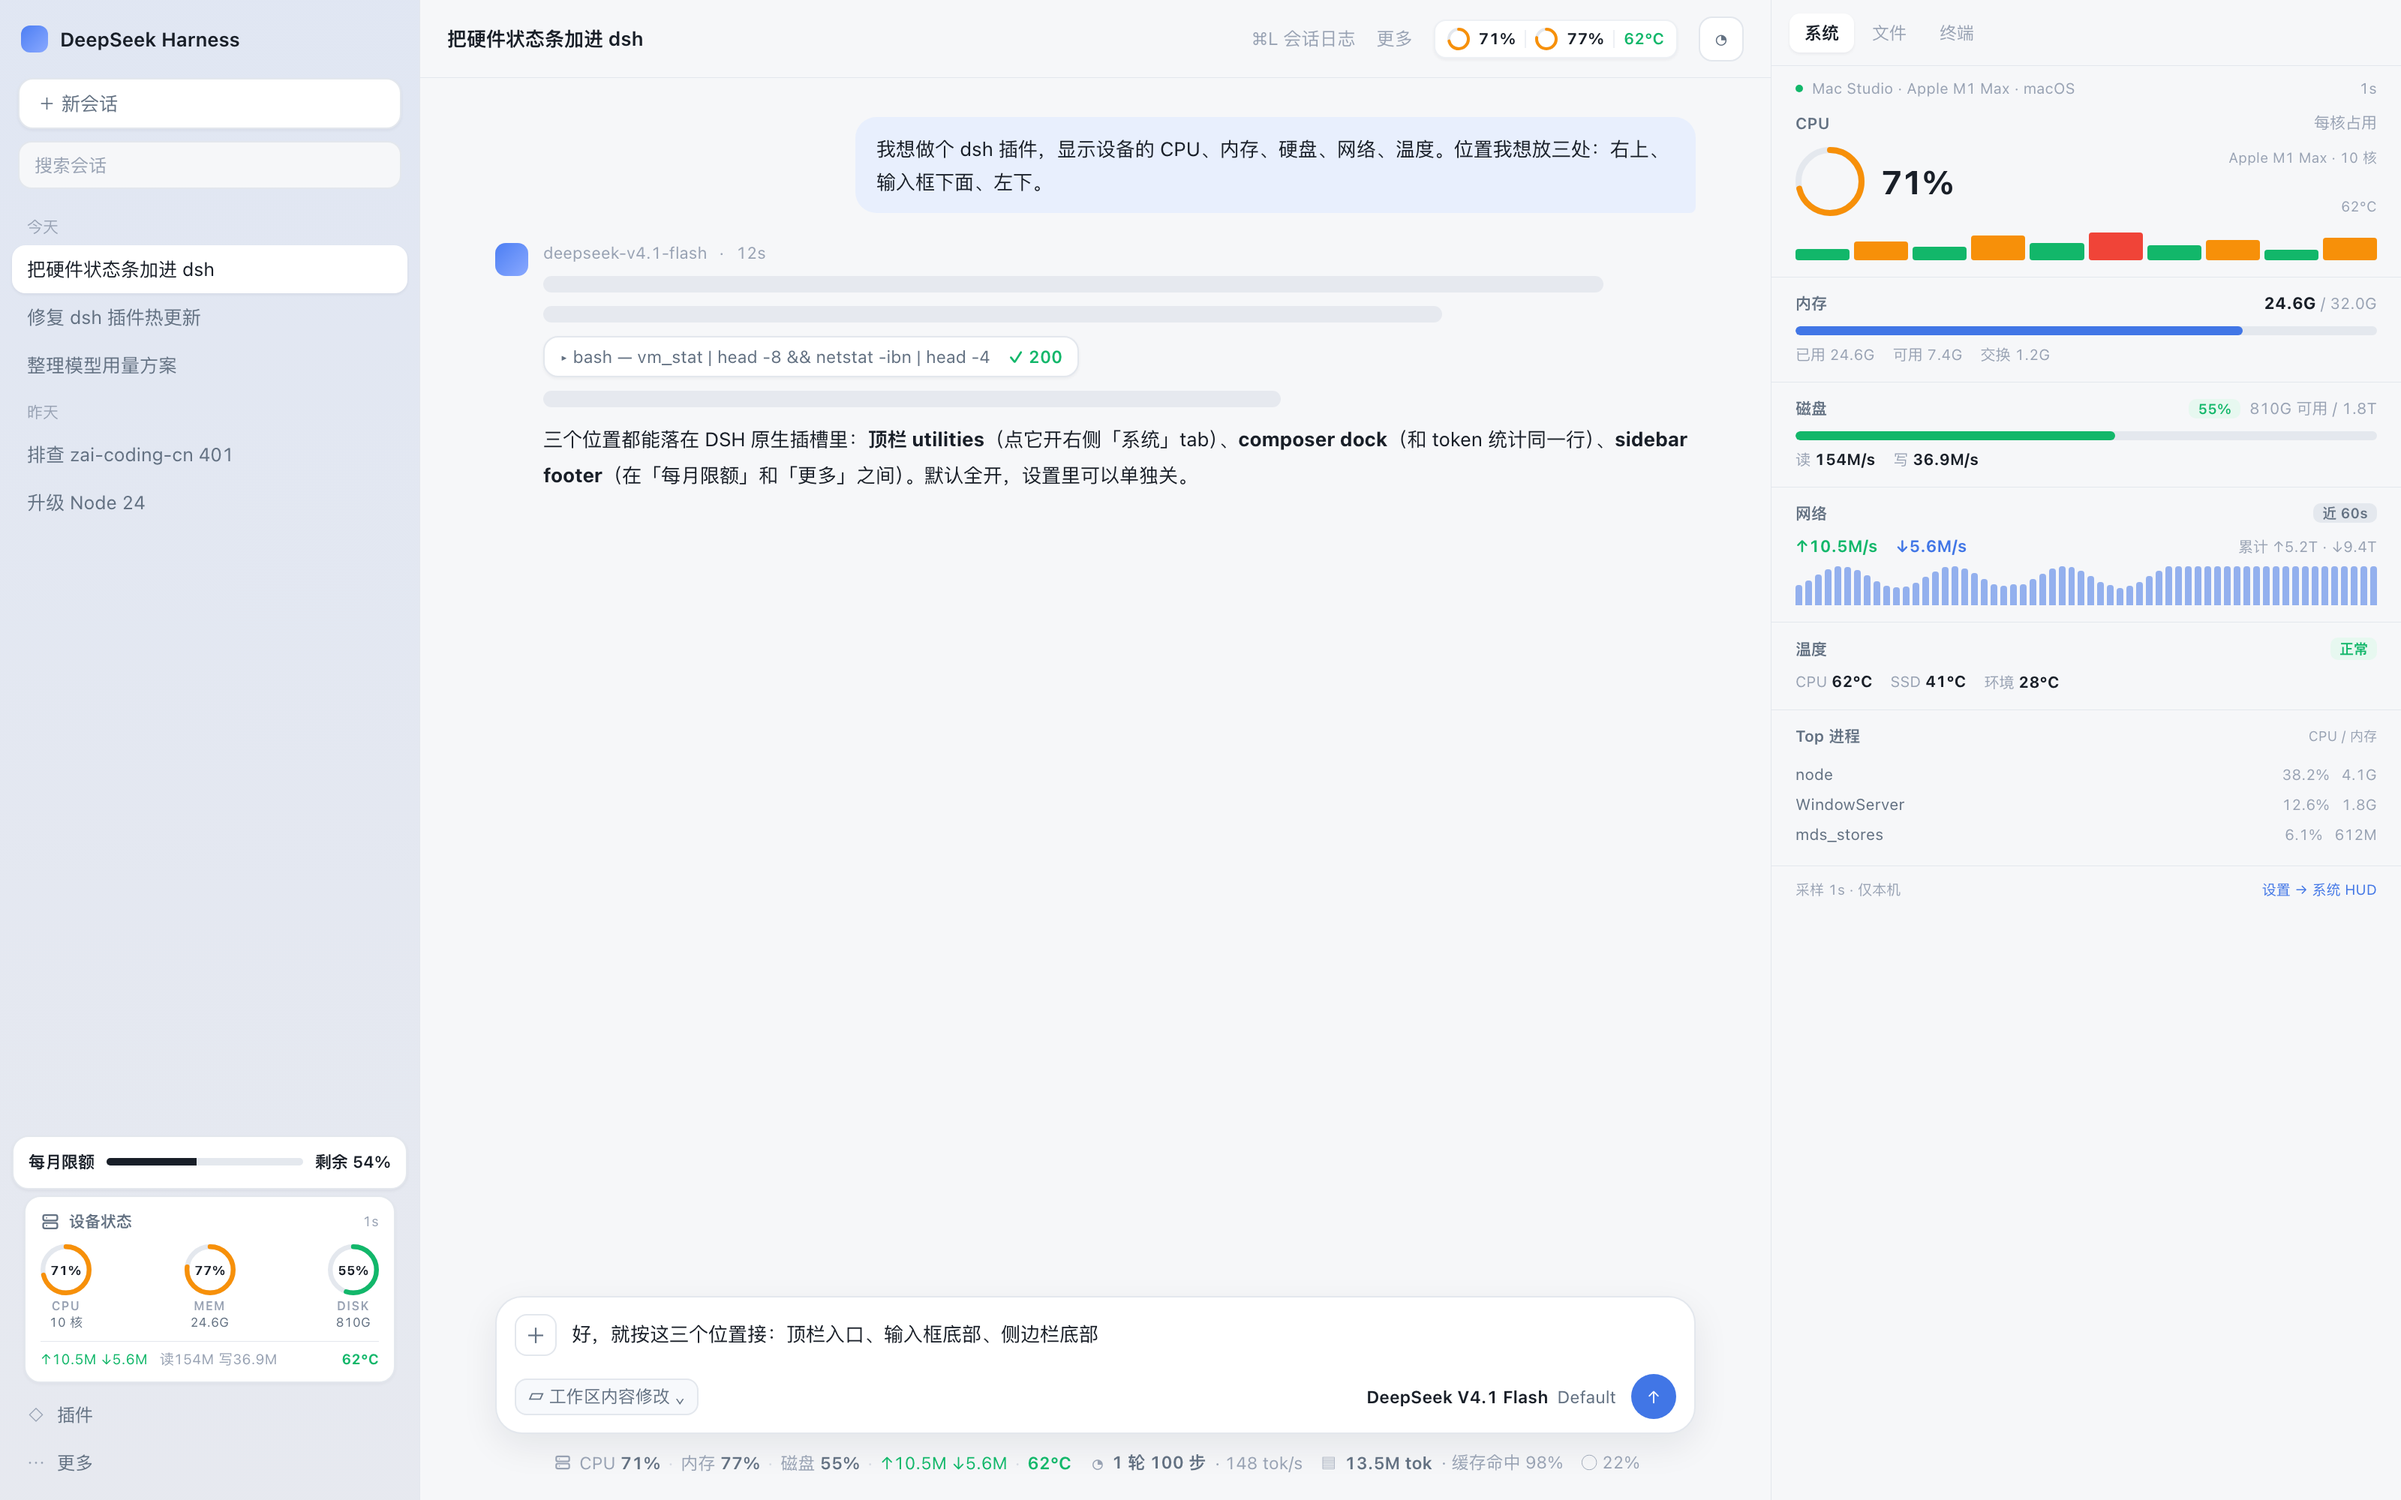
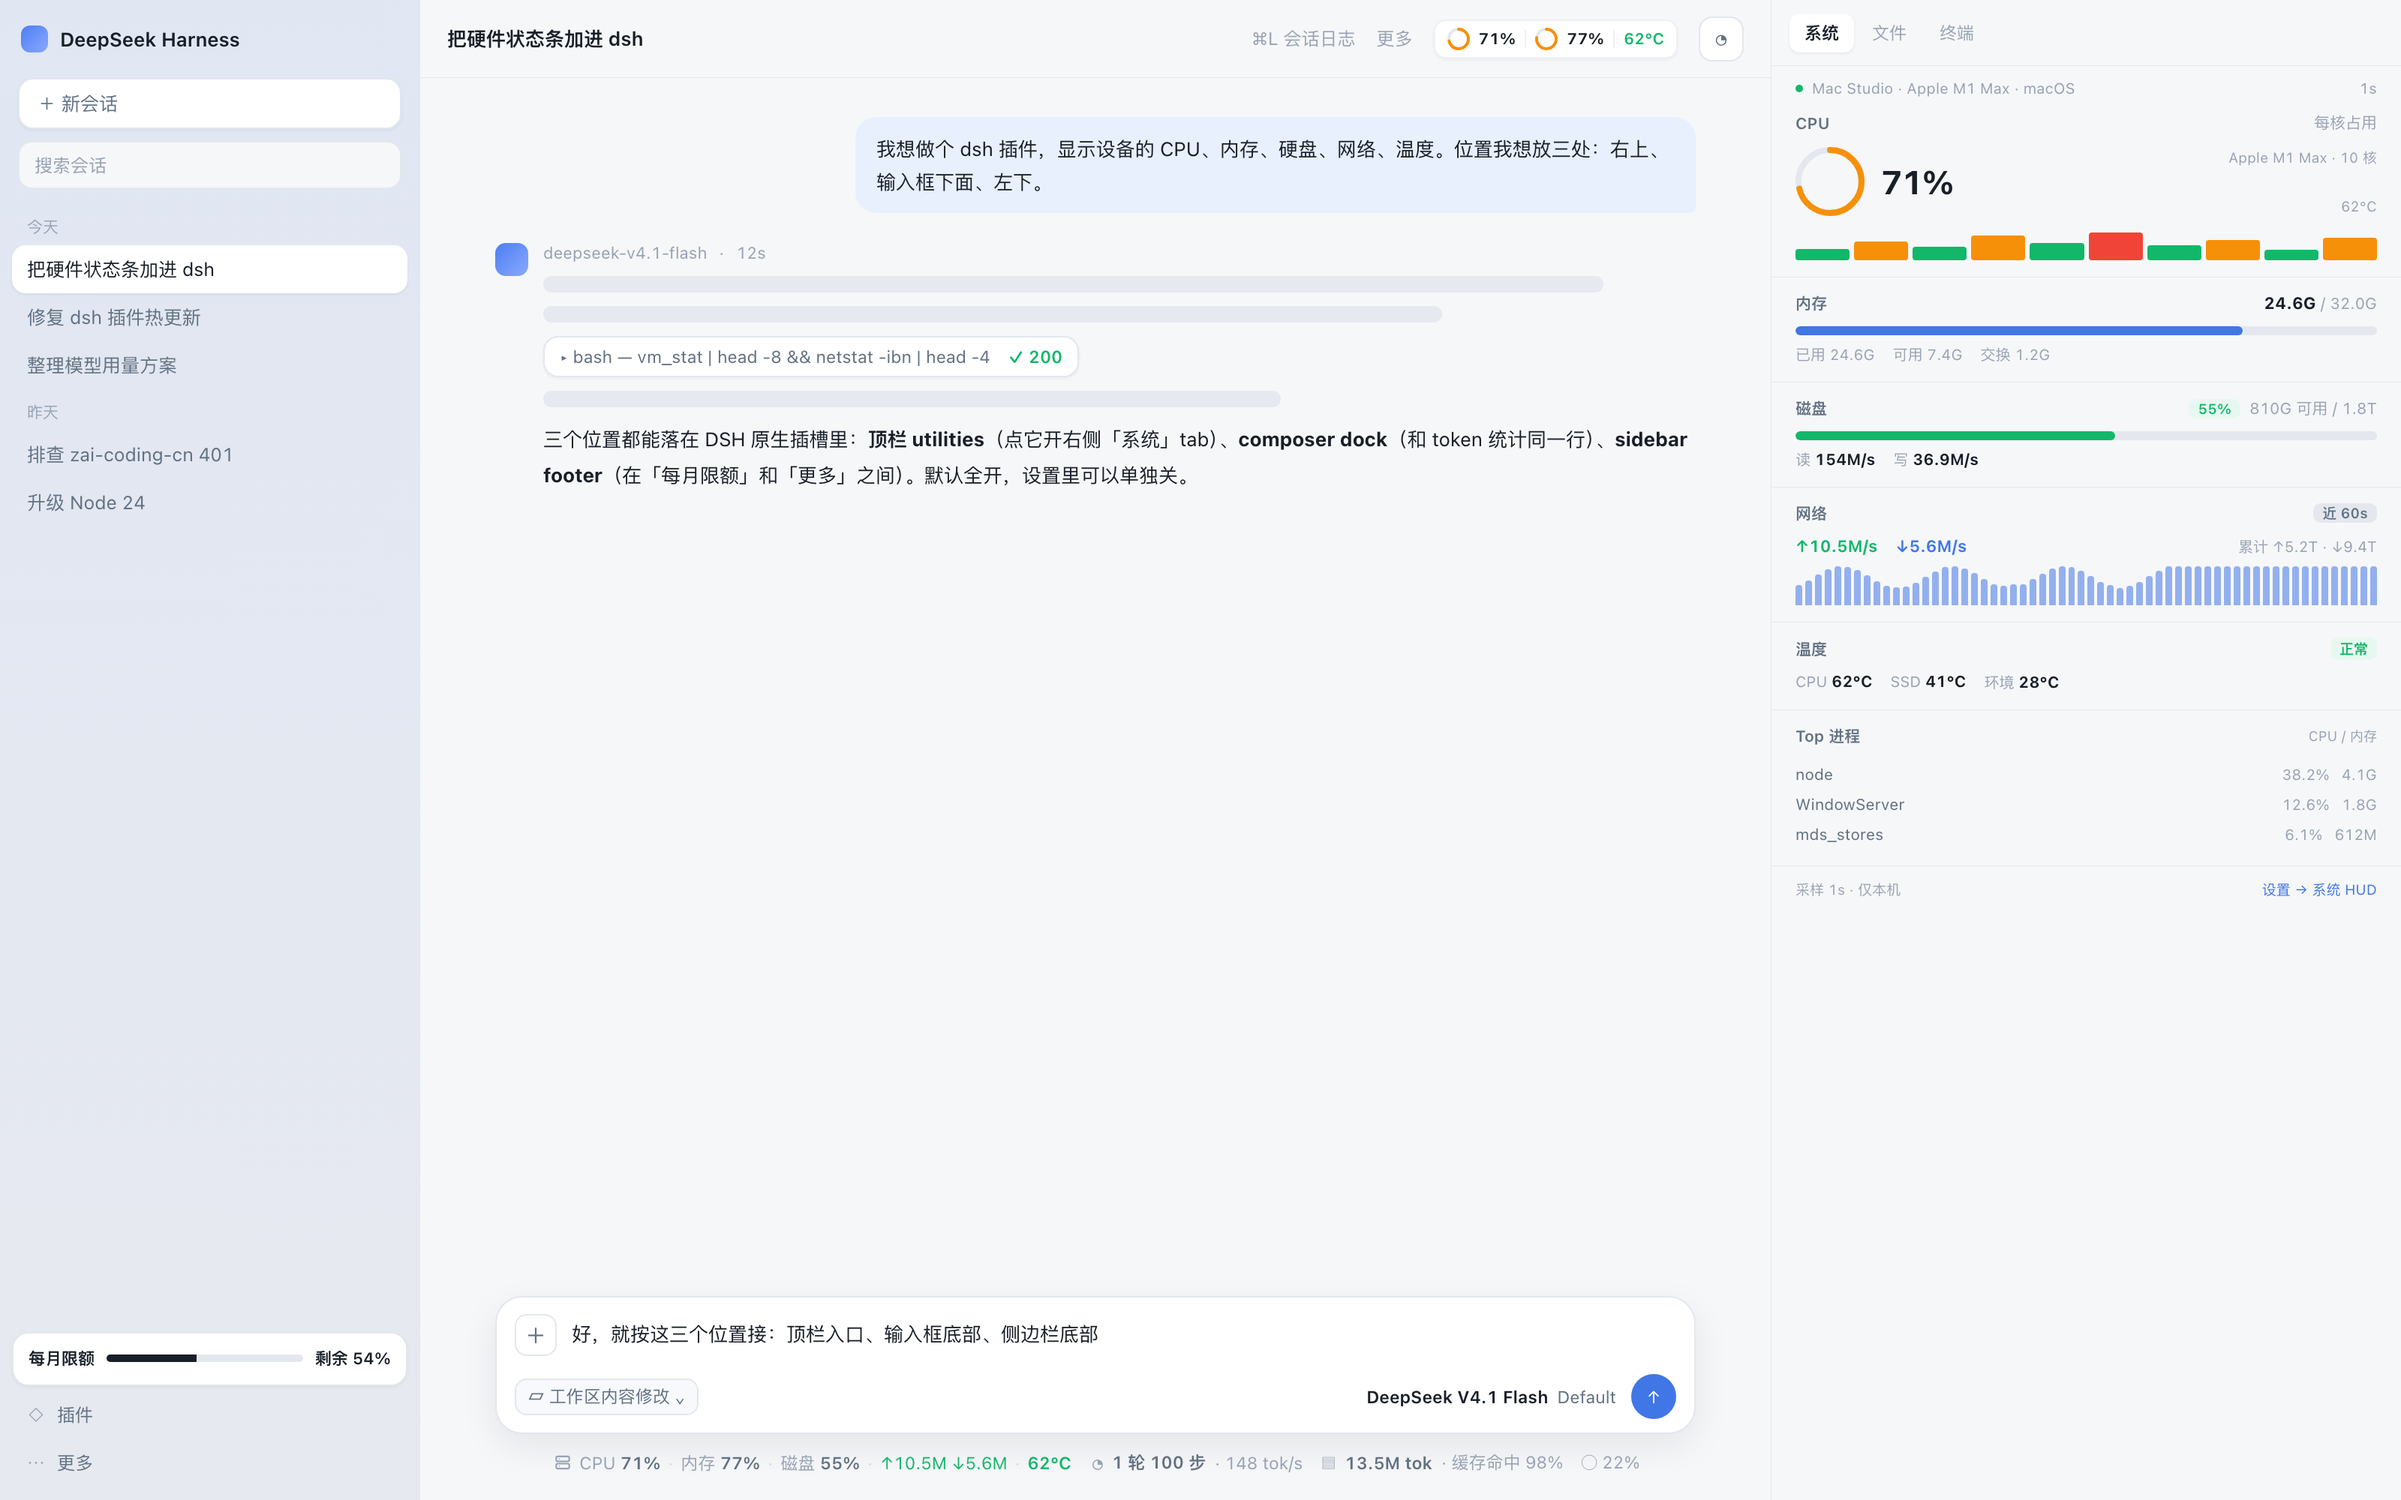
fix(client): 侧栏底部卡片改为锚定 footer 上方的浮层（footer 单行已被模型额度卡占满）
- 根因：sidebar.footer.action 是 nowrap 横向 flex，宽 256px；模型额度卡 240px，第二张整宽卡被排到 x=276 裁掉
- 展开态：卡片由 shell.overlay 浮动渲染，量 footer 行 rect 定位在其上方，跟随 resize/内容变化
- 折叠态：仍用 footer 图标按钮
- 顺带修复 footCardNode 提取后 staleTitle 作用域错误

Changed region(s): [[0.0, 0.744, 0.1875, 0.93]]

diff --git a/lib/client.js b/lib/client.js
@@ -666,6 +666,9 @@ window.__ModuleLoader__.load({
 
 /* ③ sidebar footer */
 .huds-footrow{flex:none;width:calc(100% - 16px);margin:2px 8px 4px;min-width:0}
+.huds-floatwrap{position:absolute;z-index:21;pointer-events:none;display:flex;justify-content:center}
+.huds-floatinner{pointer-events:auto;width:100%;min-width:0}
+.huds-floatinner .huds-card{box-shadow:var(--dsw-elevation-panel,0 8px 24px rgba(16,24,40,.12))}
 .huds-card{background:var(--dsw-alias-settings-card-fill,var(--dsw-alias-bg-layer-2,#fff));
   border:1px solid var(--dsw-alias-settings-card-stroke,var(--dsw-alias-border-l1,#e3e7ed));
   border-radius:11px;padding:9px 10px 10px;cursor:pointer;box-shadow:0 1px 2px rgba(16,24,40,.04);
@@ -1146,7 +1149,10 @@ window.__ModuleLoader__.load({
       class Boundary extends Base {
         constructor(props) { super(props); this.state = { failed: false } }
         static getDerivedStateFromError() { return { failed: true } }
-        componentDidCatch(error) { try { console.warn('[dsh-system-hud] render error:', error && error.message) } catch (ignored) { /* noop */ } }
+        componentDidCatch(error) {
+          try { console.warn('[dsh-system-hud] render error:', error && error.message) } catch (ignored) { /* noop */ }
+          try { document.documentElement.setAttribute('data-huds-error', String(error && (error.stack || error.message) || error).slice(0, 400)) } catch (ignored) { /* noop */ }
+        }
         render() { return this.state.failed ? null : this.props.children }
       }
       return function Bounded(props) { return h(Boundary, null, h(Comp, props)) }
@@ -1263,28 +1269,10 @@ window.__ModuleLoader__.load({
     })
 
     // ---------------------------------------------------------------- ③ sidebar footer
-    const HudFootCard = React.memo(function HudFootCard(props) {
-      useLocaleTick()
-      const { store, onOpen, wide = true } = props
-      const t = trWith(props.t)
-      const state = useStoreState(store)
-      const cfg = state.config || DEFAULT_CONFIG
-      const snapshot = state.snapshot
-      if (!snapshot) return null
-      const stale = anyStale(snapshot, cfg)
+    // 侧栏用户卡内容（原来直接塞在 footer 单行里，现在同时给浮层复用）
+    function footCardNode(props) {
+      const { store, onOpen, snapshot, cfg, stale, t } = props
       const staleTitle = stale ? t('staleLabel') : ''
-      if (!wide) {
-        const cpu = cpuPercent(snapshot)
-        return h('div', { className: 'huds-footrow huds-railrow' },
-          h('button', {
-            type: 'button',
-            className: 'huds-railbtn',
-            title: t('device') + (stale ? ' · ' + staleTitle : ''),
-            'aria-label': t('device'),
-            onClick: onOpen
-          }, h(IconServer, { size: 18 }), stale ? h('span', { className: 'huds-staledot' }) : null,
-          cpu != null && cpu >= (cfg.thresholds.crit || 85) ? h('span', { className: 'huds-staledot', style: { background: 'var(--dsw-alias-state-error-primary,#f04438)' } }) : null))
-      }
       const rings = []
       for (const key of visibleMetrics(cfg, RING_KEYS)) {
         const pct = metricPercent(snapshot, key)
@@ -1336,6 +1324,82 @@ window.__ModuleLoader__.load({
             h('span', { className: 'huds-lb' }, t(item.key === 'cpu' ? 'cpuShort' : item.key === 'memory' ? 'memShort' : 'diskShort')),
             h('span', { className: 'huds-sb' }, metricSubText(snapshot, item.key, cfg, t) || t('valueDash'))))),
           foot.length ? h('div', { className: 'huds-cardfoot' }, foot) : null))
+    }
+
+    const HudFootCard = React.memo(function HudFootCard(props) {
+      useLocaleTick()
+      const { store, onOpen, wide = true } = props
+      const t = trWith(props.t)
+      const state = useStoreState(store)
+      const cfg = state.config || DEFAULT_CONFIG
+      const snapshot = state.snapshot
+      if (!snapshot) return null
+      const stale = anyStale(snapshot, cfg)
+      const staleTitle = stale ? t('staleLabel') : ''
+      if (!wide) {
+        const cpu = cpuPercent(snapshot)
+        return h('div', { className: 'huds-footrow huds-railrow' },
+          h('button', {
+            type: 'button',
+            className: 'huds-railbtn',
+            title: t('device') + (stale ? ' · ' + staleTitle : ''),
+            'aria-label': t('device'),
+            onClick: onOpen
+          }, h(IconServer, { size: 18 }), stale ? h('span', { className: 'huds-staledot' }) : null,
+          cpu != null && cpu >= (cfg.thresholds.crit || 85) ? h('span', { className: 'huds-staledot', style: { background: 'var(--dsw-alias-state-error-primary,#f04438)' } }) : null))
+      }
+      // 展开态：footer 是 nowrap 单行、已被「模型额度」卡片占满，卡片改由 HudSidebarFloat 浮层渲染
+      return null
+    })
+
+    // 侧栏底部悬浮卡：锚定在 footer 单行上方（该行被模型额度卡占满，放不下第二张整宽卡）
+    const HudSidebarFloat = React.memo(function HudSidebarFloat(props) {
+      useLocaleTick()
+      const { store, onOpen } = props
+      const t = trWith(props.t)
+      const state = useStoreState(store)
+      const cfg = state.config || DEFAULT_CONFIG
+      const snapshot = state.snapshot
+      const [pos, setPos] = React.useState(null)
+      React.useEffect(() => {
+        if (typeof document === 'undefined') return undefined
+        let raf = 0
+        const measure = () => {
+          raf = 0
+          const slot = document.querySelector('[data-slot="sidebar.footer.action"]')
+          if (!slot) { setPos(null); return }
+          // data-slot 容器是 display:contents，量不到尺寸，改量它的父级（footerActions 行）
+          const host = slot.parentElement || slot
+          const rect = host.getBoundingClientRect()
+          if (rect.width < 140) { setPos(null); return }
+          setPos({
+            left: Math.max(0, Math.round(rect.left)),
+            width: Math.round(rect.width),
+            bottom: Math.round(Math.max(8, window.innerHeight - rect.top + 6))
+          })
+        }
+        const schedule = () => { if (!raf) raf = requestAnimationFrame(measure) }
+        schedule()
+        window.addEventListener('resize', schedule)
+        const observer = typeof ResizeObserver === 'function' ? new ResizeObserver(schedule) : null
+        if (observer) observer.observe(document.body)
+        const mutations = typeof MutationObserver === 'function' ? new MutationObserver(schedule) : null
+        if (mutations) mutations.observe(document.body, { childList: true, subtree: true })
+        const timer = setInterval(schedule, 1500)
+        return () => {
+          window.removeEventListener('resize', schedule)
+          if (observer) observer.disconnect()
+          if (mutations) mutations.disconnect()
+          clearInterval(timer)
+          if (raf) cancelAnimationFrame(raf)
+        }
+      }, [])
+      if (!snapshot || !pos) return null
+      return h('div', {
+        className: 'huds-floatwrap',
+        style: { left: pos.left + 'px', bottom: pos.bottom + 'px', width: pos.width + 'px' }
+      }, h('div', { className: 'huds-floatinner' },
+        footCardNode({ store, onOpen, snapshot, cfg, stale: anyStale(snapshot, cfg), t })))
     })
 
     // ---------------------------------------------------------------- ⑤ optional bottom bar
@@ -1843,6 +1907,12 @@ window.__ModuleLoader__.load({
               const on = enabled(store.getState().config || DEFAULT_CONFIG)
               if (on && !disposeEntry) {
                 disposeEntry = ctx.slots.register(options, Component)
+                try {
+                  const el = document.documentElement
+                  const list = (el.getAttribute('data-huds-regions') || '').split(',').filter(Boolean)
+                  if (!list.includes(options.name)) list.push(options.name)
+                  el.setAttribute('data-huds-regions', list.join(','))
+                } catch (ignored) { /* noop */ }
               } else if (!on && disposeEntry) {
                 const dispose = disposeEntry
                 disposeEntry = null
@@ -1910,6 +1980,15 @@ window.__ModuleLoader__.load({
           locale: NS,
           inject: () => ({ store })
         }, withBoundary(HudOverlay)))
+
+        // 侧栏底部：展开态用浮层卡（footer 单行被模型额度占满），折叠态用 footer 图标
+        registerWhen('shell.overlay', {
+          name: 'shell.overlay',
+          id: 'system-hud-sidebar',
+          order: 81,
+          locale: NS,
+          inject: () => ({ store, onOpen: onRegionClick })
+        }, withBoundary(HudSidebarFloat), (config) => regionOn(config, 'sidebar'))
 
         // 备选全宽底栏：single 槽，按配置严格注册/注销
         registerWhen('shell.bottom', {

diff --git a/docs/DESIGN.md b/docs/DESIGN.md
@@ -46,7 +46,7 @@ README.md CHANGELOG.md CONTRIBUTING.md RELEASE.md LICENSE
 |---|---|---|---|---|
 | ① | 对话顶栏入口 | `conversation.session.header.utilities`（list / session） | **开** | 两个 15px 小环 + 温度（~170px），和「会话日志 / 更多 / 账号」同一行；点击开右栏详情 |
 | ② | 输入框底部 | `conversation.composer.dock`（list / session） | **开** | 追加一个原生风格 pill：`CPU 71% · 内存 77% · 磁盘 55% · ↑10.5M ↓5.6M · 62°C`，和「轮次 · tok/s」「token · 缓存命中」「上下文环」同一行 |
-| ③ | 侧边栏底部 | `sidebar.footer.action`（list / root，wide 标记） | **开** | 240px 卡片：3 个 34px 环 + 一行网络/IO/温度；在「每月限额」下面、插件/更多上面 |
+| ③ | 侧边栏底部 | `sidebar.footer.action`（折叠态图标）+ `shell.overlay`（展开态浮层卡） | **开** | 240px 卡片：3 个 34px 环 + 一行网络/IO/温度；锚定在 footer 单行**上方**（该行被「模型额度」整行占用） |
 | ④ | 右侧详情 | `sidebar.right.pane.tab`（原生 tab） | **开** | 点 ①②③ 任一处打开；原生「系统」tab：每核 / 内存 / 磁盘 / 网络曲线 / 温度 / Top 进程 |
 | ⑤ | 全宽底栏（备选） | `shell.bottom`（single / root） | 关 | 46px 全宽状态条；喜欢「一条底栏」时再开，默认不占高度 |
 
@@ -54,7 +54,7 @@ README.md CHANGELOG.md CONTRIBUTING.md RELEASE.md LICENSE
 
 * ① 顶栏 utilities 只剩 ~170px：只放两个小环 + 温度；完整数据在 ④。被其他插件按钮挤时优先缩成单个图标 + 温度。
 * ② composer dock 是文本行：窄窗口按 CPU → 内存 → 磁盘 → 网络 依次折叠，剩余项进 tooltip；不与上下文环抢位置。
-* ③ 240px 卡片固定 3 环 + 一行摘要；折叠侧栏时只剩图标入口。
+* ③ 240px 卡片固定 3 环 + 一行摘要。**DSH 的 `sidebar.footer.action` 是 nowrap 横向 flex（宽 256px），已被「模型额度」240px 卡片占满，第二张整宽卡会被挤到 x=276 裁掉**；因此展开态改用 `shell.overlay` 浮层，锚定在 footer 行上方（模型额度卡之上），折叠态才用 footer 图标。
 * 关掉某个位置 = **完全卸载**：不注册、不渲染、不采样。至少保留一个，否则禁用「全部关闭」。
 * ④ 右栏 tab 只在**有可见会话**时能开；无会话时点击退化为 hover 大卡（`shell.overlay`）内联详情，不报错。
 
